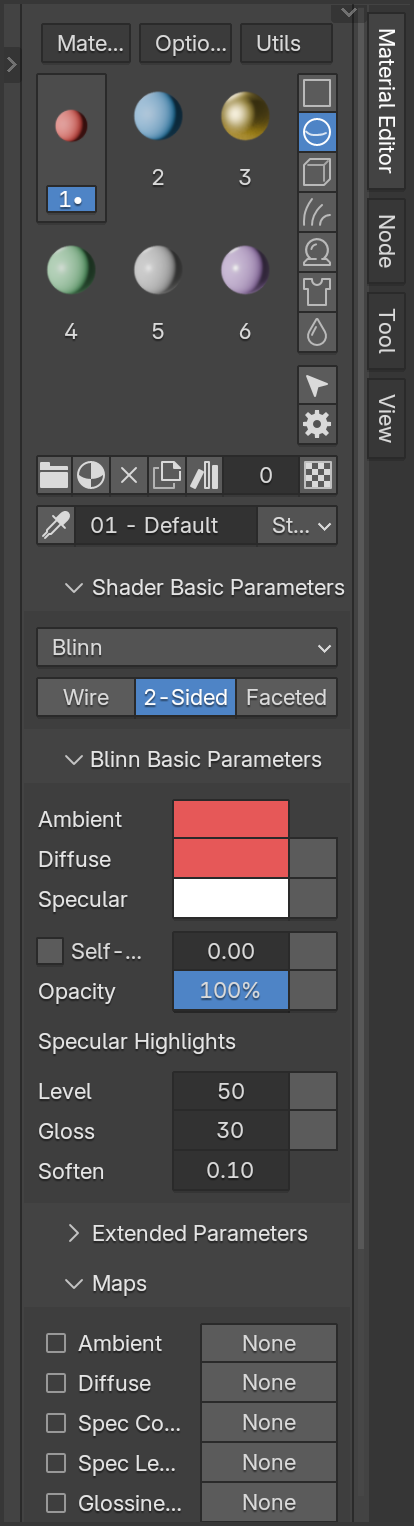
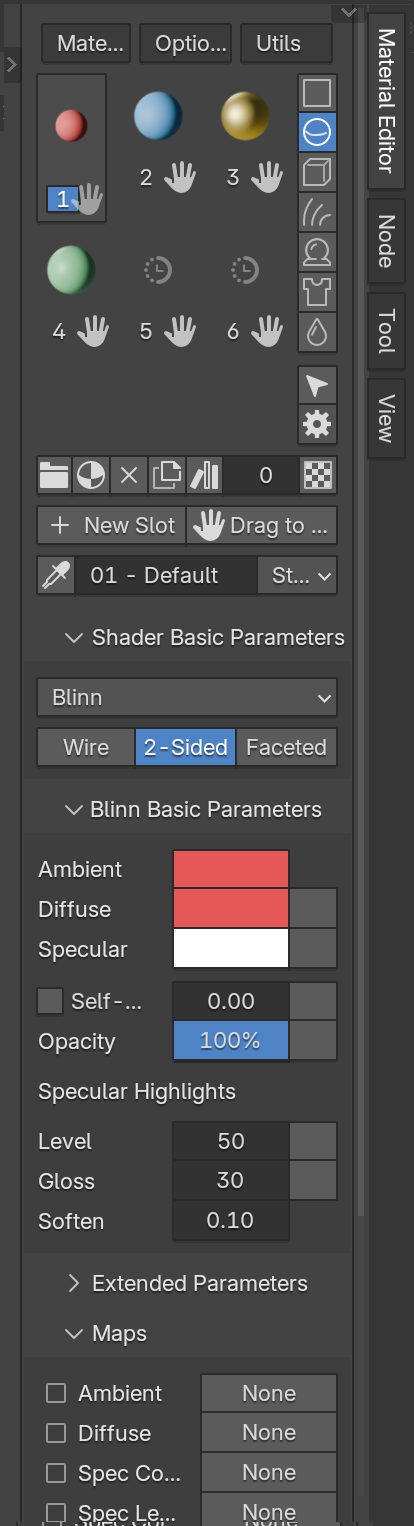
Material Editor: drag-and-drop materials, unlimited sample slots (1.6.0)
- Hand button on each slot (and Drag): click an object in any viewport to
  drop the material. Replaces the object's material (Max behaviour), all
  selected objects if the target is selected, selected faces in Edit Mode,
  only the clicked part with Ctrl, repeated drops with Shift. Runs in the
  window with the viewports so it works from the floating editor.
- + New Slot and "All Slots" view: no 24-slot limit.
- Utils > Get All Scene Materials fills slots from the scene.
- Pick Material from Object now also works from the floating editor window.

diff --git a/notuodesk_3ds_maxxed/mtl_editor.py b/notuodesk_3ds_maxxed/mtl_editor.py
@@ -280,8 +280,9 @@ class MaxMtlSlot(PropertyGroup):
 
 class MaxMtlEditorState(PropertyGroup):
     slots: CollectionProperty(type=MaxMtlSlot)
-    active: IntProperty(default=0, min=0, max=NUM_SLOTS - 1)
-    visible: EnumProperty(name="Sample Slots", items=[("6", "3 x 2", ""), ("15", "5 x 3", ""), ("24", "6 x 4", "")],
+    active: IntProperty(default=0, min=0)
+    visible: EnumProperty(name="Sample Slots", items=[("6", "3 x 2", ""), ("15", "5 x 3", ""), ("24", "6 x 4", ""),
+                                                      ("ALL", "All Slots", "Show every slot, including added ones")],
                           default="6")
 
 
@@ -560,6 +561,15 @@ class MAX_OT_mtl_pick(Operator):
     bl_options = {"REGISTER", "UNDO"}
 
     def invoke(self, context, event):
+        if not any(a.type == "VIEW_3D" for a in context.window.screen.areas):
+            # started from the Material Editor window: listen in the window with the viewports
+            target = next((w for w in context.window_manager.windows
+                           if any(a.type == "VIEW_3D" for a in w.screen.areas)), None)
+            if target is None:
+                return {"CANCELLED"}
+            with context.temp_override(window=target, screen=target.screen, area=None, region=None):
+                bpy.ops.max.mtl_pick("INVOKE_DEFAULT")
+            return {"FINISHED"}
         context.window_manager.modal_handler_add(self)
         context.window.cursor_modal_set("EYEDROPPER")
         context.workspace.status_text_set("Pick Material: click an object.  Right-click / Esc: cancel")
@@ -625,6 +635,202 @@ class MAX_OT_mtl_reset_slots(Operator):
         return {"FINISHED"}
 
 
+class MAX_OT_mtl_add_slot(Operator):
+    """Add a sample slot with a new material (no 24-slot limit)"""
+    bl_idname = "max.mtl_add_slot"
+    bl_label = "New Sample Slot"
+    bl_options = {"REGISTER", "UNDO"}
+
+    def execute(self, context):
+        ensure_slots(context.scene)
+        st = state(context)
+        slot = st.slots.add()
+        slot.material = new_default_material(len(st.slots) - 1)
+        st.active = len(st.slots) - 1
+        if st.visible != "ALL" and st.active >= int(st.visible):
+            st.visible = "ALL"
+        _show_in_node_editor(context, slot.material)
+        return {"FINISHED"}
+
+
+class MAX_OT_mtl_get_scene(Operator):
+    """Get All Scene Materials: put every material used in the scene into sample slots"""
+    bl_idname = "max.mtl_get_scene"
+    bl_label = "Get All Scene Materials"
+    bl_options = {"REGISTER", "UNDO"}
+
+    def execute(self, context):
+        ensure_slots(context.scene)
+        st = state(context)
+        used = []
+        for ob in context.scene.objects:
+            for ms in getattr(ob, "material_slots", []):
+                if ms.material and ms.material not in used:
+                    used.append(ms.material)
+        have = {sl.material for sl in st.slots if sl.material}
+        added = 0
+        for mat in used:
+            if mat in have:
+                continue
+            empty = next((sl for sl in st.slots if sl.material is None), None) or st.slots.add()
+            empty.material = mat
+            added += 1
+        if len(st.slots) > 24 or any(i >= int(st.visible) for i, sl in enumerate(st.slots)
+                                     if sl.material in used and st.visible != "ALL"):
+            st.visible = "ALL"
+        self.report({"INFO"}, f"{added} scene material(s) added to the editor")
+        return {"FINISHED"}
+
+
+def _assign_drop(context, ob, face_index, mat, only_part, region=None, area=None):
+    """3ds Max drop rules. Returns a short description of what changed."""
+    if ob.type not in {"MESH", "CURVE", "FONT", "SURFACE", "META"}:
+        return None
+    if ob.type == "MESH" and ob.mode == "EDIT":
+        me = ob.data
+        idx = next((i for i, m in enumerate(me.materials) if m == mat), None)
+        if idx is None:
+            me.materials.append(mat)
+            idx = len(me.materials) - 1
+        ob.active_material_index = idx
+        import bmesh
+        bm = bmesh.from_edit_mesh(me)
+        sel = [f for f in bm.faces if f.select]
+        if not sel and face_index is not None and face_index < len(bm.faces):
+            bm.faces.ensure_lookup_table()
+            sel = [bm.faces[face_index]]
+        for f in sel:
+            f.material_index = idx
+        bmesh.update_edit_mesh(me)
+        return f"{len(sel)} face(s) of {ob.name}"
+    if only_part and ob.material_slots and face_index is not None and ob.type == "MESH":
+        try:
+            mi = ob.data.polygons[face_index].material_index
+        except IndexError:
+            mi = ob.active_material_index
+        ob.material_slots[mi].material = mat
+        return f"part of {ob.name}"
+    targets = [ob]
+    if ob.select_get():
+        targets = [o for o in context.selected_objects
+                   if o.type in {"MESH", "CURVE", "FONT", "SURFACE", "META"}] or [ob]
+    for t in targets:
+        t.data.materials.clear()          # Max replaces the object's material
+        t.data.materials.append(mat)
+    return ", ".join(t.name for t in targets)
+
+
+class MAX_OT_mtl_drop(Operator):
+    """Drop a material onto an object (runs in the window with the viewports)"""
+    bl_idname = "max.mtl_drop"
+    bl_label = "Drop Material"
+    bl_options = {"REGISTER", "UNDO", "INTERNAL"}
+
+    material: StringProperty()
+
+    def invoke(self, context, event):
+        self.mat = bpy.data.materials.get(self.material)
+        if self.mat is None:
+            return {"CANCELLED"}
+        self.dropped = 0
+        context.window_manager.modal_handler_add(self)
+        for w in context.window_manager.windows:
+            w.cursor_modal_set("PAINT_BRUSH")
+        self._status(context, None)
+        return {"RUNNING_MODAL"}
+
+    def _status(self, context, target):
+        txt = f"Drag {self.mat.name}: click an object to drop it"
+        if target:
+            txt = f"Drop {self.mat.name} on {target}"
+        txt += "   (Ctrl: only that part · Shift: keep dropping · Right-click/Esc: done)"
+        try:
+            context.workspace.status_text_set(txt)
+        except Exception:
+            pass
+
+    def _finish(self, context):
+        for w in context.window_manager.windows:
+            w.cursor_modal_restore()
+        try:
+            context.workspace.status_text_set(None)
+        except Exception:
+            pass
+        for w in context.window_manager.windows:
+            for a in w.screen.areas:
+                a.tag_redraw()
+
+    def _hit(self, context, event):
+        from .create import region_under_mouse
+        area, region = region_under_mouse(context, event.mouse_x, event.mouse_y)
+        if region is None:
+            return None, None, None, None
+        co = (event.mouse_x - region.x, event.mouse_y - region.y)
+        rv3d = region.data
+        origin = view3d_utils.region_2d_to_origin_3d(region, rv3d, co)
+        direction = view3d_utils.region_2d_to_vector_3d(region, rv3d, co)
+        dg = context.evaluated_depsgraph_get()
+        hit, _l, _n, face, ob, _m = context.scene.ray_cast(dg, origin, direction)
+        if not hit or ob is None:
+            return None, None, area, region
+        return ob.original, face, area, region
+
+    def modal(self, context, event):
+        if event.type in {"RIGHTMOUSE", "ESC"} and event.value == "PRESS":
+            self._finish(context)
+            return {"FINISHED"} if self.dropped else {"CANCELLED"}
+        if event.type == "MOUSEMOVE":
+            ob, _f, _a, _r = self._hit(context, event)
+            self._status(context, ob.name if ob else None)
+            return {"RUNNING_MODAL"}
+        if event.type == "LEFTMOUSE" and event.value == "PRESS":
+            ob, face, area, region = self._hit(context, event)
+            if region is None:
+                return {"PASS_THROUGH"}       # e.g. clicking UI: let it through
+            if ob is None:
+                if not event.shift:
+                    self._finish(context)
+                    return {"FINISHED"} if self.dropped else {"CANCELLED"}
+                return {"RUNNING_MODAL"}
+            what = _assign_drop(context, ob, face, self.mat, event.ctrl)
+            if what:
+                self.dropped += 1
+                self.report({"INFO"}, f"{self.mat.name} -> {what}")
+            if not event.shift:
+                self._finish(context)
+                return {"FINISHED"}
+            return {"RUNNING_MODAL"}
+        return {"PASS_THROUGH"}
+
+
+class MAX_OT_mtl_drag(Operator):
+    """Drag this material to an object: click the hand, then click an object in a viewport.
+    Ctrl: only the clicked part · Shift: keep dropping · in Edit Mode: selected faces"""
+    bl_idname = "max.mtl_drag"
+    bl_label = "Drag Material to Object"
+
+    index: IntProperty()
+
+    def invoke(self, context, event):
+        ensure_slots(context.scene)
+        st = state(context)
+        while self.index >= len(st.slots):
+            st.slots.add()
+        st.active = self.index
+        slot = st.slots[self.index]
+        if slot.material is None:
+            slot.material = new_default_material(self.index)
+        # run the drop in the window that has the viewports (modal handlers are per window)
+        wm = context.window_manager
+        target = next((w for w in wm.windows if any(a.type == "VIEW_3D" for a in w.screen.areas)), context.window)
+        with context.temp_override(window=target, screen=target.screen, area=None, region=None):
+            bpy.ops.max.mtl_drop("INVOKE_DEFAULT", material=slot.material.name)
+        return {"FINISHED"}
+
+    def execute(self, context):
+        return {"CANCELLED"}
+
+
 # ---------------------------------------------------------------------------
 # UI
 # ---------------------------------------------------------------------------
@@ -680,6 +886,8 @@ class MAX_MT_mtl_utilities(Menu):
 
     def draw(self, context):
         lay = self.layout
+        lay.operator("max.mtl_get_scene", text="Get All Scene Materials")
+        lay.operator("max.mtl_add_slot", text="Add Sample Slot")
         lay.operator("max.mtl_reset_slots")
         lay.operator("max.relink_textures", text="Relink Missing Bitmaps...")
         lay.operator("outliner.orphans_purge", text="Clean Unused Materials").do_recursive = True
@@ -704,8 +912,14 @@ class MAX_PT_mtl_editor(_MtlPanel, Panel):
             lay.operator("max.mtl_slot", text="Open Material Editor", icon="MATERIAL").index = 0
             return
 
-        count = int(st.visible)
-        cols = {6: 3, 15: 5, 24: 6}[count]
+        if st.visible == "ALL":
+            count, cols = len(st.slots), 3
+        else:
+            count = min(int(st.visible), len(st.slots))
+            cols = {6: 3, 15: 5, 24: 6}[int(st.visible)]
+        if st.active >= count:          # keep the active slot visible
+            count = len(st.slots)
+            cols = 3
         width = context.region.width / max(context.preferences.system.ui_scale, 0.5)
         icon_scale = max(2.0, min(5.0, (width - 60) / cols / 22))
 
@@ -726,6 +940,7 @@ class MAX_PT_mtl_editor(_MtlPanel, Panel):
             btn.scale_y = 0.7
             btn.operator("max.mtl_slot", text=str(i + 1) + ("•" if hot else ""),
                          depress=(i == st.active), emboss=(i == st.active)).index = i
+            btn.operator("max.mtl_drag", text="", icon="VIEW_PAN", emboss=False).index = i
 
         # right-hand toolbar
         tools = split.column(align=True)
@@ -746,6 +961,9 @@ class MAX_PT_mtl_editor(_MtlPanel, Panel):
         if mat is not None:
             row.prop(mat, "pass_index", text="ID")
         row.operator("max.mtl_show_in_viewport", text="", icon="TEXTURE")
+        row = lay.row(align=True)
+        row.operator("max.mtl_add_slot", text="New Slot", icon="ADD")
+        row.operator("max.mtl_drag", text="Drag", icon="VIEW_PAN").index = st.active
 
         # name / type row
         if mat is None:
@@ -941,6 +1159,7 @@ classes = (MaxStdMaterial, MaxMtlSlot, MaxMtlEditorState,
            MAX_OT_mtl_slot, MAX_OT_mtl_get, MAX_OT_mtl_assign, MAX_OT_mtl_reset, MAX_OT_mtl_make_unique,
            MAX_OT_mtl_put_library, MAX_OT_mtl_select_by, MAX_OT_mtl_show_in_viewport, MAX_OT_mtl_set_type,
            MAX_OT_mtl_load_map, MAX_OT_mtl_clear_map, MAX_OT_mtl_pick, MAX_OT_mtl_reset_slots,
+           MAX_OT_mtl_add_slot, MAX_OT_mtl_get_scene, MAX_OT_mtl_drop, MAX_OT_mtl_drag,
            MAX_MT_mtl_material, MAX_MT_mtl_options, MAX_MT_mtl_utilities,
            MAX_PT_mtl_editor, MAX_PT_mtl_shader_basic, MAX_PT_mtl_blinn, MAX_PT_mtl_vray,
            MAX_PT_mtl_extended, MAX_PT_mtl_maps)

diff --git a/notuodesk_3ds_maxxed/__init__.py b/notuodesk_3ds_maxxed/__init__.py
@@ -15,7 +15,7 @@
 bl_info = {
     "name": "NotuoDesk 3ds Maxxed",
     "author": "NotuoDesk",
-    "version": (1, 5, 0),
+    "version": (1, 6, 0),
     "blender": (4, 2, 0),
     "location": "3D Viewport > Sidebar > Command Panel",
     "description": "Makes Blender look and work like 3ds Max",

diff --git a/README.md b/README.md
@@ -9,7 +9,7 @@ A Blender add-on (Blender 4.2+, tested on 5.2.3 LTS) that makes Blender look and
 ## Install
 
 1. In Blender, open **Edit › Preferences › Get Extensions**, click the **⌄** menu (top right), then **Install from Disk…**
-2. Pick `notuodesk_3ds_maxxed-1.5.0.zip` (download it from this repo's **Releases** page).
+2. Pick `notuodesk_3ds_maxxed-1.6.0.zip` (download it from this repo's **Releases** page).
 3. On first enable, the add-on applies the 3ds Max theme and adds a **3ds Max** workspace, then switches you to it.
 
 To reset a rearranged layout, choose **Customize › Apply 3ds Max Look**. It rebuilds the "3ds Max" workspace from scratch.
@@ -40,7 +40,14 @@ To go back to normal Blender, choose **Customize › Restore Blender Look**, or 
 
 Press **M**, or choose **Rendering › Material Editor**. It opens as a narrow floating window, like 3ds Max's Compact Material Editor.
 
-- **Sample slots:** 6, 15 or 24 slots, chosen under Options. A dot marks materials that are used in the scene.
+- **Sample slots:** 6, 15 or 24 slots, or **All**, chosen under Options. A dot marks materials that are used in the scene. **+ New Slot** adds more slots, with no 24-slot limit. **Utils › Get All Scene Materials** loads every material used in the scene, adding slots as needed.
+- **Drag and drop:** click a slot's hand icon, or **Drag**, then click an object in any viewport.
+  - **Plain click:** replaces the object's material, as in Max.
+  - **Object is part of a selection:** assigns to every selected object.
+  - **Edit Mode:** assigns to the selected faces.
+  - **Ctrl+click:** replaces only the material on the part you clicked.
+  - **Shift+click:** keeps dropping. Right-click or Esc to stop.
+  - *Blender doesn't let add-on buttons start a true mouse drag, so it works as pick-up-and-click.*
 - **Side toolbar:** preview type (sphere, cube, flat, cloth…), **Select by Material**, and options.
 - **Bottom toolbar:** Get Material, **Assign Material to Selection**, Reset Map/Mtl to Default Settings, Make Material Copy, **Put to Library** (Asset Browser), Material ID Channel, and Show Shaded Material in Viewport.
 - **Pick Material from Object:** an eyedropper. Click any object, or one face of a multi-material object.
